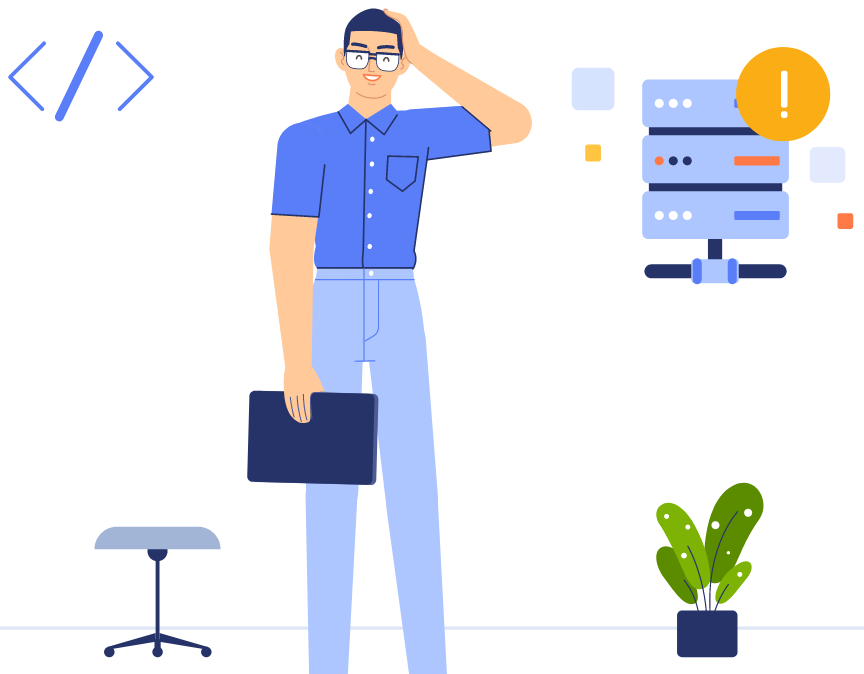
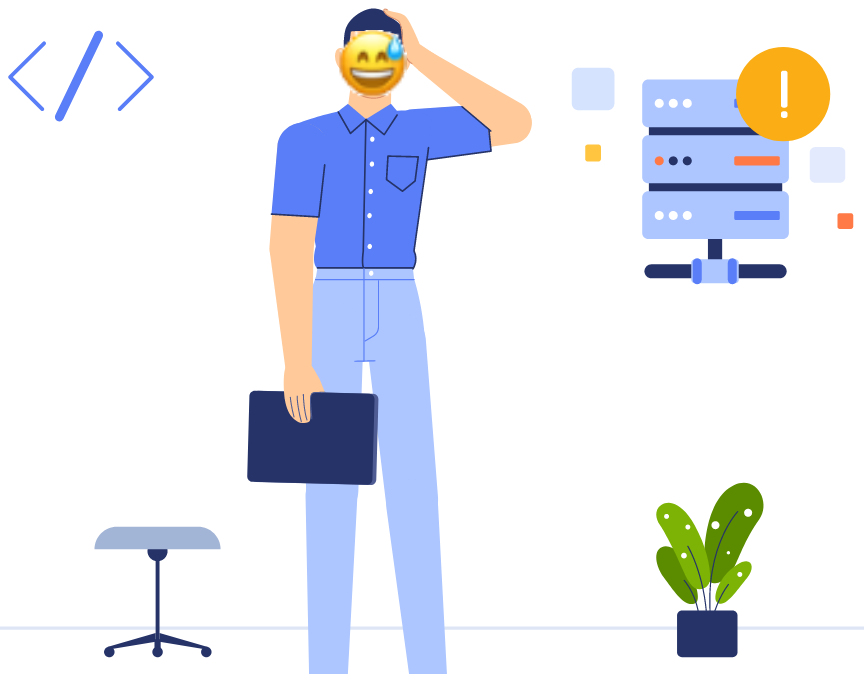
1

Changed region(s): [[0.375, 0.0312, 0.4688, 0.1558]]

diff --git a/index.html b/index.html
@@ -25,10 +25,6 @@
 		</script>
 	</head>
 	<body>
-		<div>$test$</div><br>
-		$test$<br>
-		<div>$$test$$</div><br>
-		<div>$$\textbf{test}$$</div><br>
 		😅😅😅😅😅😅😅😅😅😅😅😅😅😅😅😅😅😅😅😅😅😅😅😅😅😅😅😅😅😅😅😅😅😅😅😅😅😅😅😅😅😅😅😅😅😅😅😅😅😅😅😅😅😅😅😅😅😅😅😅😅😅😅😅😅😅😅😅😅😅😅😅😅😅😅😅😅😅😅😅😅😅😅😅😅😅😅😅😅😅😅😅😅😅😅😅😅😅😅😅😅😅😅😅😅😅😅😅😅😅😅😅😅😅😅😅😅😅😅😅😅😅😅😅😅😅😅😅😅😅😅😅😅😅😅😅😅😅😅😅😅😅😅😅😅😅😅😅😅😅😅😅😅😅😅😅😅😅😅😅😅😅😅😅😅😅😅😅😅😅😅😅😅😅😅😅😅😅😅😅😅😅😅😅😅😅😅😅😅😅😅😅😅😅😅😅😅😅😅😅😅😅😅😅😅😅😅😅😅😅😅😅😅😅😅😅😅😅😅😅😅😅😅😅😅😅😅😅😅😅😅😅😅😅😅😅😅😅😅😅😅😅😅😅😅😅😅😅😅😅😅😅😅😅😅😅😅😅😅😅😅😅😅😅😅😅😅😅😅😅😅😅😅😅😅😅😅😅😅😅😅😅😅😅😅😅😅😅😅😅😅😅😅😅😅😅😅😅😅😅😅😅😅😅😅😅😅😅😅😅😅😅😅😅😅😅😅😅😅😅😅😅😅😅😅😅😅😅😅😅😅😅😅😅😅😅😅😅😅😅😅😅😅😅😅😅😅😅😅😅😅😅😅😅😅😅😅😅😅😅😅😅😅😅😅😅😅😅😅😅😅😅😅😅😅😅😅😅😅😅😅😅😅😅😅😅😅😅😅😅😅😅😅😅😅😅😅😅😅😅😅😅😅😅😅😅😅😅😅😅😅😅😅😅😅😅😅😅😅😅😅😅😅😅😅😅😅😅😅😅😅😅😅😅😅😅😅😅😅😅😅😅😅😅😅😅😅😅😅😅😅😅😅😅😅😅😅😅😅😅😅😅😅😅😅😅😅😅😅😅😅😅😅😅😅😅😅😅😅😅😅😅😅😅😅😅😅😅😅😅😅😅😅😅😅😅😅😅😅😅😅😅😅😅😅😅😅😅😅😅😅😅😅😅😅😅😅😅😅😅😅😅😅😅😅😅😅😅😅😅😅😅😅😅😅😅😅😅😅😅😅😅😅😅😅😅😅😅😅😅😅😅😅😅😅😅😅😅😅😅😅😅😅😅😅😅😅😅😅😅😅😅😅😅😅😅😅😅😅😅😅😅😅😅😅😅😅😅😅😅😅😅😅😅😅😅😅😅😅😅😅😅😅😅😅😅😅😅😅😅😅😅😅😅😅😅😅😅😅😅😅😅😅😅😅😅😅😅😅😅😅😅😅😅😅😅😅😅😅😅😅😅😅😅😅😅😅😅😅😅😅😅😅😅😅😅😅😅😅😅😅😅😅😅😅😅😅😅😅😅😅😅😅😅😅😅😅😅😅😅😅😅😅😅😅😅😅😅😅😅😅😅😅😅😅😅😅😅😅😅😅😅😅😅😅😅😅😅😅😅😅😅😅😅😅😅😅😅😅😅😅😅😅😅😅😅😅😅😅😅😅😅😅😅😅😅😅😅😅😅😅😅😅😅😅😅😅😅😅😅😅😅😅😅😅😅😅😅😅😅😅😅😅😅😅😅😅😅😅😅😅😅😅😅😅😅😅😅😅😅😅😅😅😅😅😅😅😅😅😅😅😅😅😅😅😅😅😅😅😅😅😅😅😅😅😅😅😅😅😅😅😅😅😅😅😅😅😅😅😅😅😅😅😅😅😅😅😅😅😅😅😅😅😅😅😅😅😅😅😅😅😅😅😅😅😅😅😅😅😅😅😅😅😅😅😅😅😅😅😅😅😅😅😅😅😅😅😅😅😅😅😅😅😅😅😅😅😅😅😅😅😅😅😅😅😅😅😅😅😅😅😅😅😅😅😅😅😅😅😅😅😅😅😅😅😅😅😅😅😅😅😅😅😅😅😅😅😅😅😅😅😅😅😅😅😅😅😅😅😅😅😅😅😅😅😅😅😅😅😅😅😅😅😅😅😅😅😅😅😅😅😅😅😅😅😅😅😅😅😅😅😅😅😅😅😅😅😅😅😅😅😅😅😅😅😅😅😅😅😅😅😅😅😅😅😅😅😅😅😅😅😅😅😅😅😅😅😅😅😅😅😅😅😅😅😅😅😅😅😅😅😅😅😅😅😅😅😅😅😅😅😅😅😅😅😅😅😅😅😅😅😅😅😅😅😅😅😅😅😅😅😅😅😅😅😅😅😅😅😅😅😅😅😅😅😅😅😅😅😅😅😅😅😅😅😅😅😅😅😅😅😅😅😅😅😅😅😅😅😅😅😅😅😅😅😅😅😅😅😅😅😅😅😅😅😅😅😅😅😅😅😅😅😅😅😅😅😅😅😅😅😅😅😅😅😅😅😅😅😅😅😅😅😅😅😅😅😅😅😅😅😅😅😅😅😅😅😅😅😅😅😅😅😅😅😅😅😅😅😅😅😅😅😅😅😅😅😅😅😅😅😅😅😅😅😅😅😅😅😅😅😅😅😅😅😅😅😅😅😅😅😅😅😅😅😅😅😅😅😅😅😅😅😅😅😅😅😅😅😅
 	</body>
 </html>
